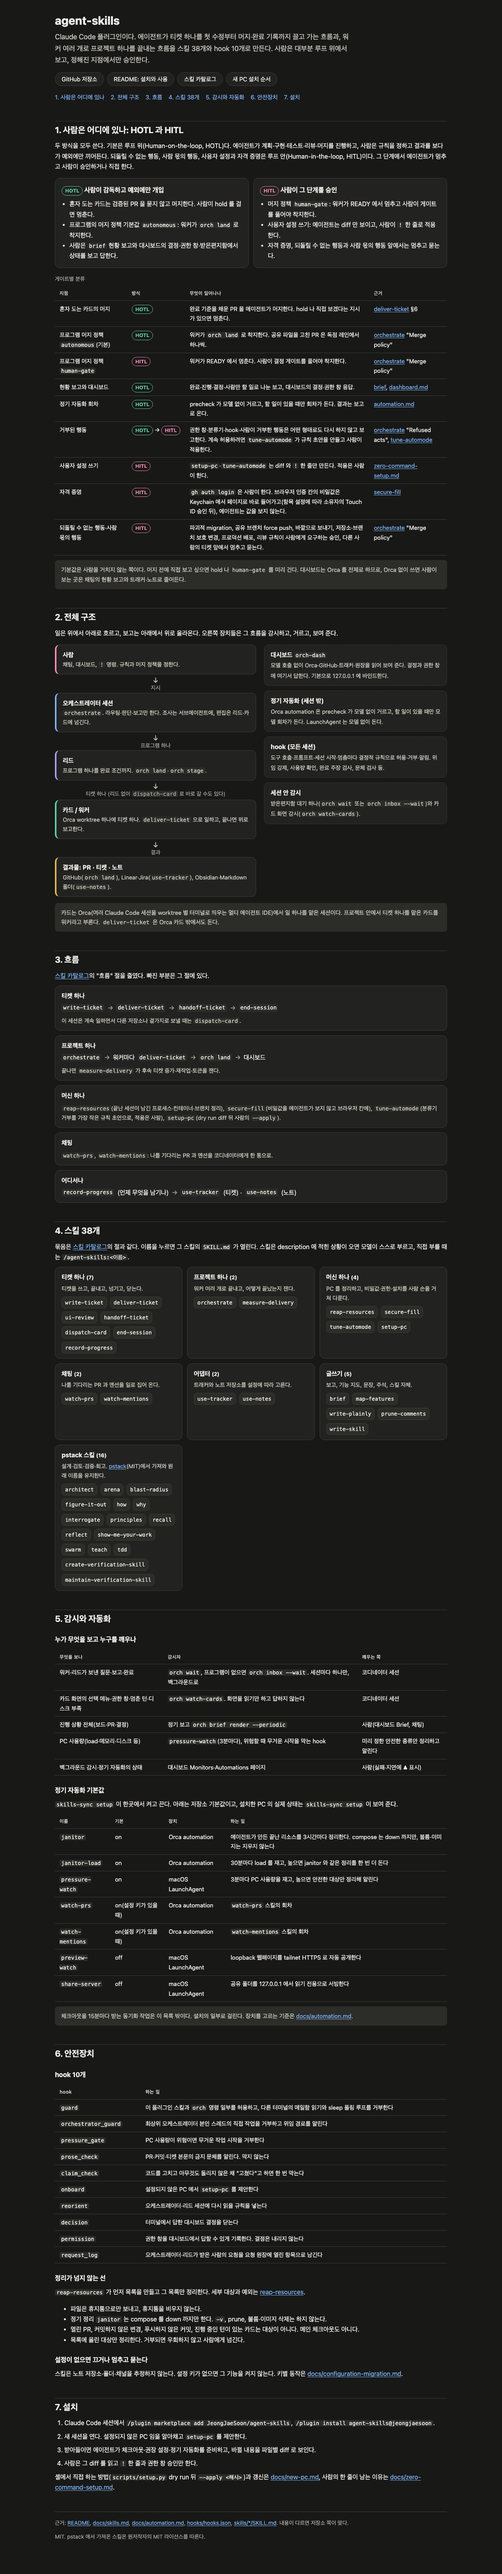
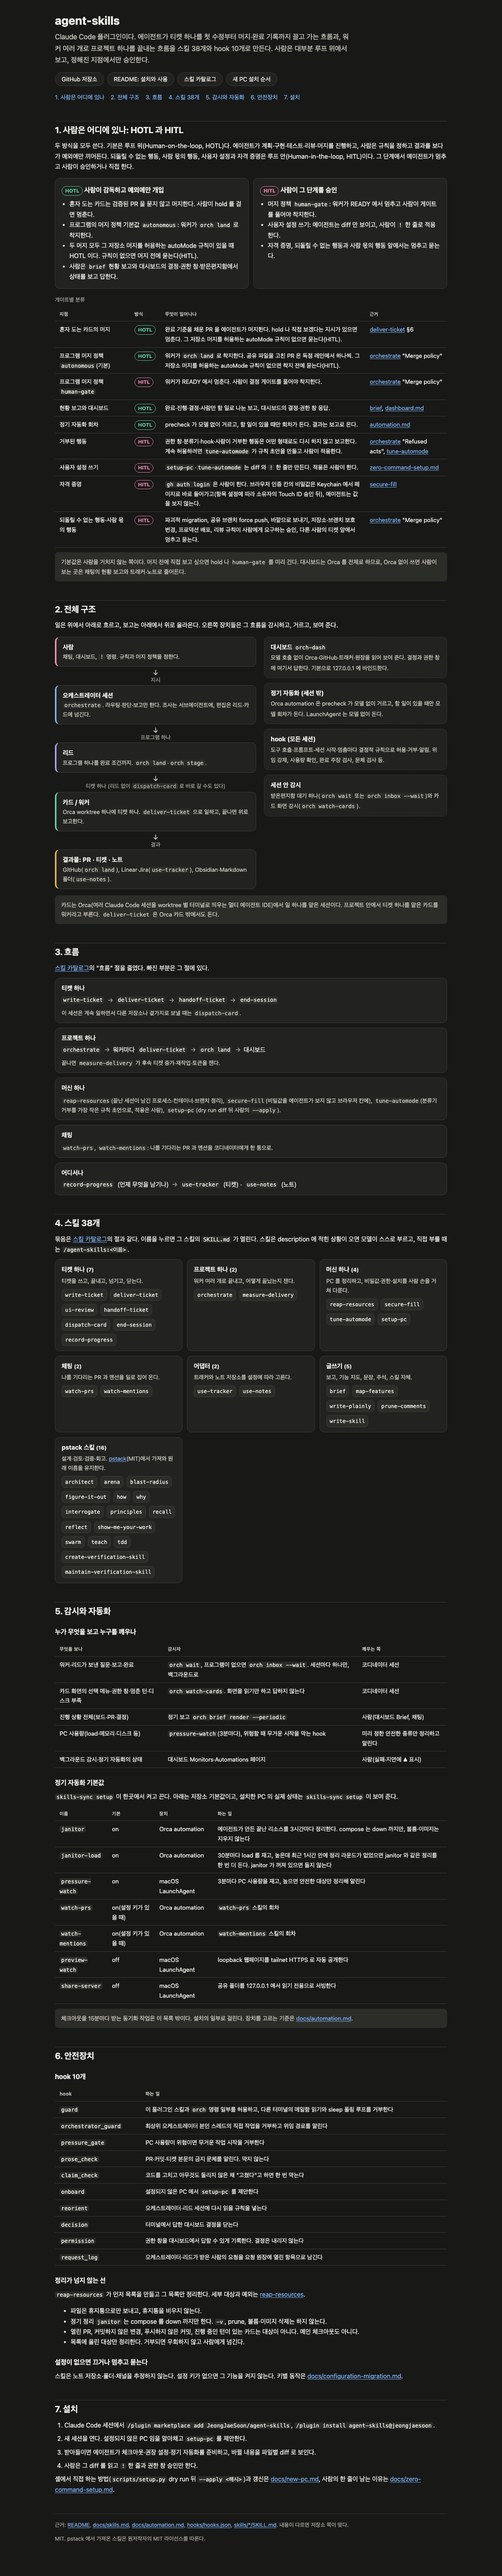
docs(landing): 머지 HOTL 에 autoMode 규칙 조건을 달고 거부 표기·janitor-load 조건을 고친다
- 혼자 도는 카드의 머지와 autonomous 머지는 그 저장소 머지를 허용하는 autoMode 규칙이 있을 때 HOTL, 없으면 묻는다(HITL).
- 거부된 행동은 README 와 같이 HITL 로 적는다.
- janitor-load 설명에 최근 1시간 정리 라운드·janitor 꺼짐 조건을 넣는다.
- 1280 스크린샷을 다시 찍는다.

diff --git a/docs/index.html b/docs/index.html
@@ -146,6 +146,7 @@ footer{color:var(--muted);font-size:14px;margin-top:48px;border-top:1px solid va
     <ul>
       <li>혼자 도는 카드는 검증된 PR 을 묻지 않고 머지한다. 사람이 hold 를 걸면 멈춘다.</li>
       <li>프로그램의 머지 정책 기본값 <code>autonomous</code>: 워커가 <code>orch land</code> 로 착지한다.</li>
+      <li>두 머지 모두 그 저장소 머지를 허용하는 autoMode 규칙이 있을 때 HOTL 이다. 규칙이 없으면 머지 전에 묻는다(HITL).</li>
       <li>사람은 <code>brief</code> 현황 보고와 대시보드의 결정·권한 창·받은편지함에서 상태를 보고 답한다.</li>
     </ul>
   </section>
@@ -164,12 +165,12 @@ footer{color:var(--muted);font-size:14px;margin-top:48px;border-top:1px solid va
 <caption>게이트별 분류</caption>
 <thead><tr><th scope="col">지점</th><th scope="col">방식</th><th scope="col">무엇이 일어나나</th><th scope="col">근거</th></tr></thead>
 <tbody>
-<tr><td>혼자 도는 카드의 머지</td><td class="kind"><span class="tag hotl">HOTL</span></td><td>완료 기준을 채운 PR 을 에이전트가 머지한다. hold 나 직접 보겠다는 지시가 있으면 멈춘다.</td><td><a href="https://github.com/JeongJaeSoon/agent-skills/blob/main/skills/deliver-ticket/SKILL.md">deliver-ticket</a> §6</td></tr>
-<tr><td>프로그램 머지 정책 <code>autonomous</code>(기본)</td><td class="kind"><span class="tag hotl">HOTL</span></td><td>워커가 <code>orch land</code> 로 착지한다. 공유 파일을 고친 PR 은 독점 레인에서 하나씩.</td><td><a href="https://github.com/JeongJaeSoon/agent-skills/blob/main/skills/orchestrate/SKILL.md">orchestrate</a> "Merge policy"</td></tr>
+<tr><td>혼자 도는 카드의 머지</td><td class="kind"><span class="tag hotl">HOTL</span></td><td>완료 기준을 채운 PR 을 에이전트가 머지한다. hold 나 직접 보겠다는 지시가 있으면 멈춘다. 그 저장소 머지를 허용하는 autoMode 규칙이 없으면 묻는다(HITL).</td><td><a href="https://github.com/JeongJaeSoon/agent-skills/blob/main/skills/deliver-ticket/SKILL.md">deliver-ticket</a> §6</td></tr>
+<tr><td>프로그램 머지 정책 <code>autonomous</code>(기본)</td><td class="kind"><span class="tag hotl">HOTL</span></td><td>워커가 <code>orch land</code> 로 착지한다. 공유 파일을 고친 PR 은 독점 레인에서 하나씩. 그 저장소 머지를 허용하는 autoMode 규칙이 없으면 착지 전에 묻는다(HITL).</td><td><a href="https://github.com/JeongJaeSoon/agent-skills/blob/main/skills/orchestrate/SKILL.md">orchestrate</a> "Merge policy"</td></tr>
 <tr><td>프로그램 머지 정책 <code>human-gate</code></td><td class="kind"><span class="tag hitl">HITL</span></td><td>워커가 READY 에서 멈춘다. 사람이 결정 게이트를 풀어야 착지한다.</td><td><a href="https://github.com/JeongJaeSoon/agent-skills/blob/main/skills/orchestrate/SKILL.md">orchestrate</a> "Merge policy"</td></tr>
 <tr><td>현황 보고와 대시보드</td><td class="kind"><span class="tag hotl">HOTL</span></td><td>완료·진행·결정·사람만 할 일로 나눈 보고, 대시보드의 결정·권한 창 응답.</td><td><a href="https://github.com/JeongJaeSoon/agent-skills/blob/main/skills/brief/SKILL.md">brief</a>, <a href="https://github.com/JeongJaeSoon/agent-skills/blob/main/skills/orchestrate/references/dashboard.md">dashboard.md</a></td></tr>
 <tr><td>정기 자동화 회차</td><td class="kind"><span class="tag hotl">HOTL</span></td><td>precheck 가 모델 없이 거르고, 할 일이 있을 때만 회차가 돈다. 결과는 보고로 온다.</td><td><a href="https://github.com/JeongJaeSoon/agent-skills/blob/main/docs/automation.md">automation.md</a></td></tr>
-<tr><td>거부된 행동</td><td class="kind"><span class="tag hotl">HOTL</span> → <span class="tag hitl">HITL</span></td><td>권한 창·분류기·hook·사람이 거부한 행동은 어떤 형태로도 다시 하지 않고 보고한다. 계속 허용하려면 <code>tune-automode</code> 가 규칙 초안을 만들고 사람이 적용한다.</td><td><a href="https://github.com/JeongJaeSoon/agent-skills/blob/main/skills/orchestrate/SKILL.md">orchestrate</a> "Refused acts", <a href="https://github.com/JeongJaeSoon/agent-skills/blob/main/skills/tune-automode/SKILL.md">tune-automode</a></td></tr>
+<tr><td>거부된 행동</td><td class="kind"><span class="tag hitl">HITL</span></td><td>권한 창·분류기·hook·사람이 거부한 행동은 어떤 형태로도 다시 하지 않고 보고한다. 계속 허용하려면 <code>tune-automode</code> 가 규칙 초안을 만들고 사람이 적용한다.</td><td><a href="https://github.com/JeongJaeSoon/agent-skills/blob/main/skills/orchestrate/SKILL.md">orchestrate</a> "Refused acts", <a href="https://github.com/JeongJaeSoon/agent-skills/blob/main/skills/tune-automode/SKILL.md">tune-automode</a></td></tr>
 <tr><td>사용자 설정 쓰기</td><td class="kind"><span class="tag hitl">HITL</span></td><td><code>setup-pc</code>·<code>tune-automode</code> 는 diff 와 <code title="Claude Code 입력칸에서 ! 로 시작하는 줄: 사람이 그 세션에서 셸 명령을 직접 실행한다">!</code> 한 줄만 만든다. 적용은 사람이 한다.</td><td><a href="https://github.com/JeongJaeSoon/agent-skills/blob/main/docs/zero-command-setup.md">zero-command-setup.md</a></td></tr>
 <tr><td>자격 증명</td><td class="kind"><span class="tag hitl">HITL</span></td><td><code>gh auth login</code> 은 사람이 한다. 브라우저 인증 칸의 비밀값은 Keychain 에서 페이지로 바로 들어가고(항목 설정에 따라 소유자의 Touch ID 승인 뒤), 에이전트는 값을 보지 않는다.</td><td><a href="https://github.com/JeongJaeSoon/agent-skills/blob/main/skills/secure-fill/SKILL.md">secure-fill</a></td></tr>
 <tr><td>되돌릴 수 없는 행동·사람 몫의 행동</td><td class="kind"><span class="tag hitl">HITL</span></td><td>파괴적 migration, 공유 브랜치 force push, 바깥으로 보내기, 저장소·브랜치 보호 변경, 프로덕션 배포, 리뷰 규칙이 사람에게 요구하는 승인, 다른 사람의 티켓 앞에서 멈추고 묻는다.</td><td><a href="https://github.com/JeongJaeSoon/agent-skills/blob/main/skills/orchestrate/SKILL.md">orchestrate</a> "Merge policy"</td></tr>
@@ -312,7 +313,7 @@ footer{color:var(--muted);font-size:14px;margin-top:48px;border-top:1px solid va
 <thead><tr><th scope="col">이름</th><th scope="col">기본</th><th scope="col">장치</th><th scope="col">하는 일</th></tr></thead>
 <tbody>
 <tr><td><code>janitor</code></td><td>on</td><td>Orca automation</td><td>에이전트가 만든 끝난 리소스를 3시간마다 정리한다. compose 는 down 까지만, 볼륨·이미지는 지우지 않는다</td></tr>
-<tr><td><code>janitor-load</code></td><td>on</td><td>Orca automation</td><td>30분마다 load 를 재고, 높으면 janitor 와 같은 정리를 한 번 더 돈다</td></tr>
+<tr><td><code>janitor-load</code></td><td>on</td><td>Orca automation</td><td>30분마다 load 를 재고, 높은데 최근 1시간 안에 정리 라운드가 없었으면 janitor 와 같은 정리를 한 번 더 돈다. janitor 가 꺼져 있으면 돌지 않는다</td></tr>
 <tr><td><code>pressure-watch</code></td><td>on</td><td>macOS LaunchAgent</td><td>3분마다 PC 사용량을 재고, 높으면 안전한 대상만 정리해 알린다</td></tr>
 <tr><td><code>watch-prs</code></td><td>on(설정 키가 있을 때)</td><td>Orca automation</td><td><code>watch-prs</code> 스킬의 회차</td></tr>
 <tr><td><code>watch-mentions</code></td><td>on(설정 키가 있을 때)</td><td>Orca automation</td><td><code>watch-mentions</code> 스킬의 회차</td></tr>
